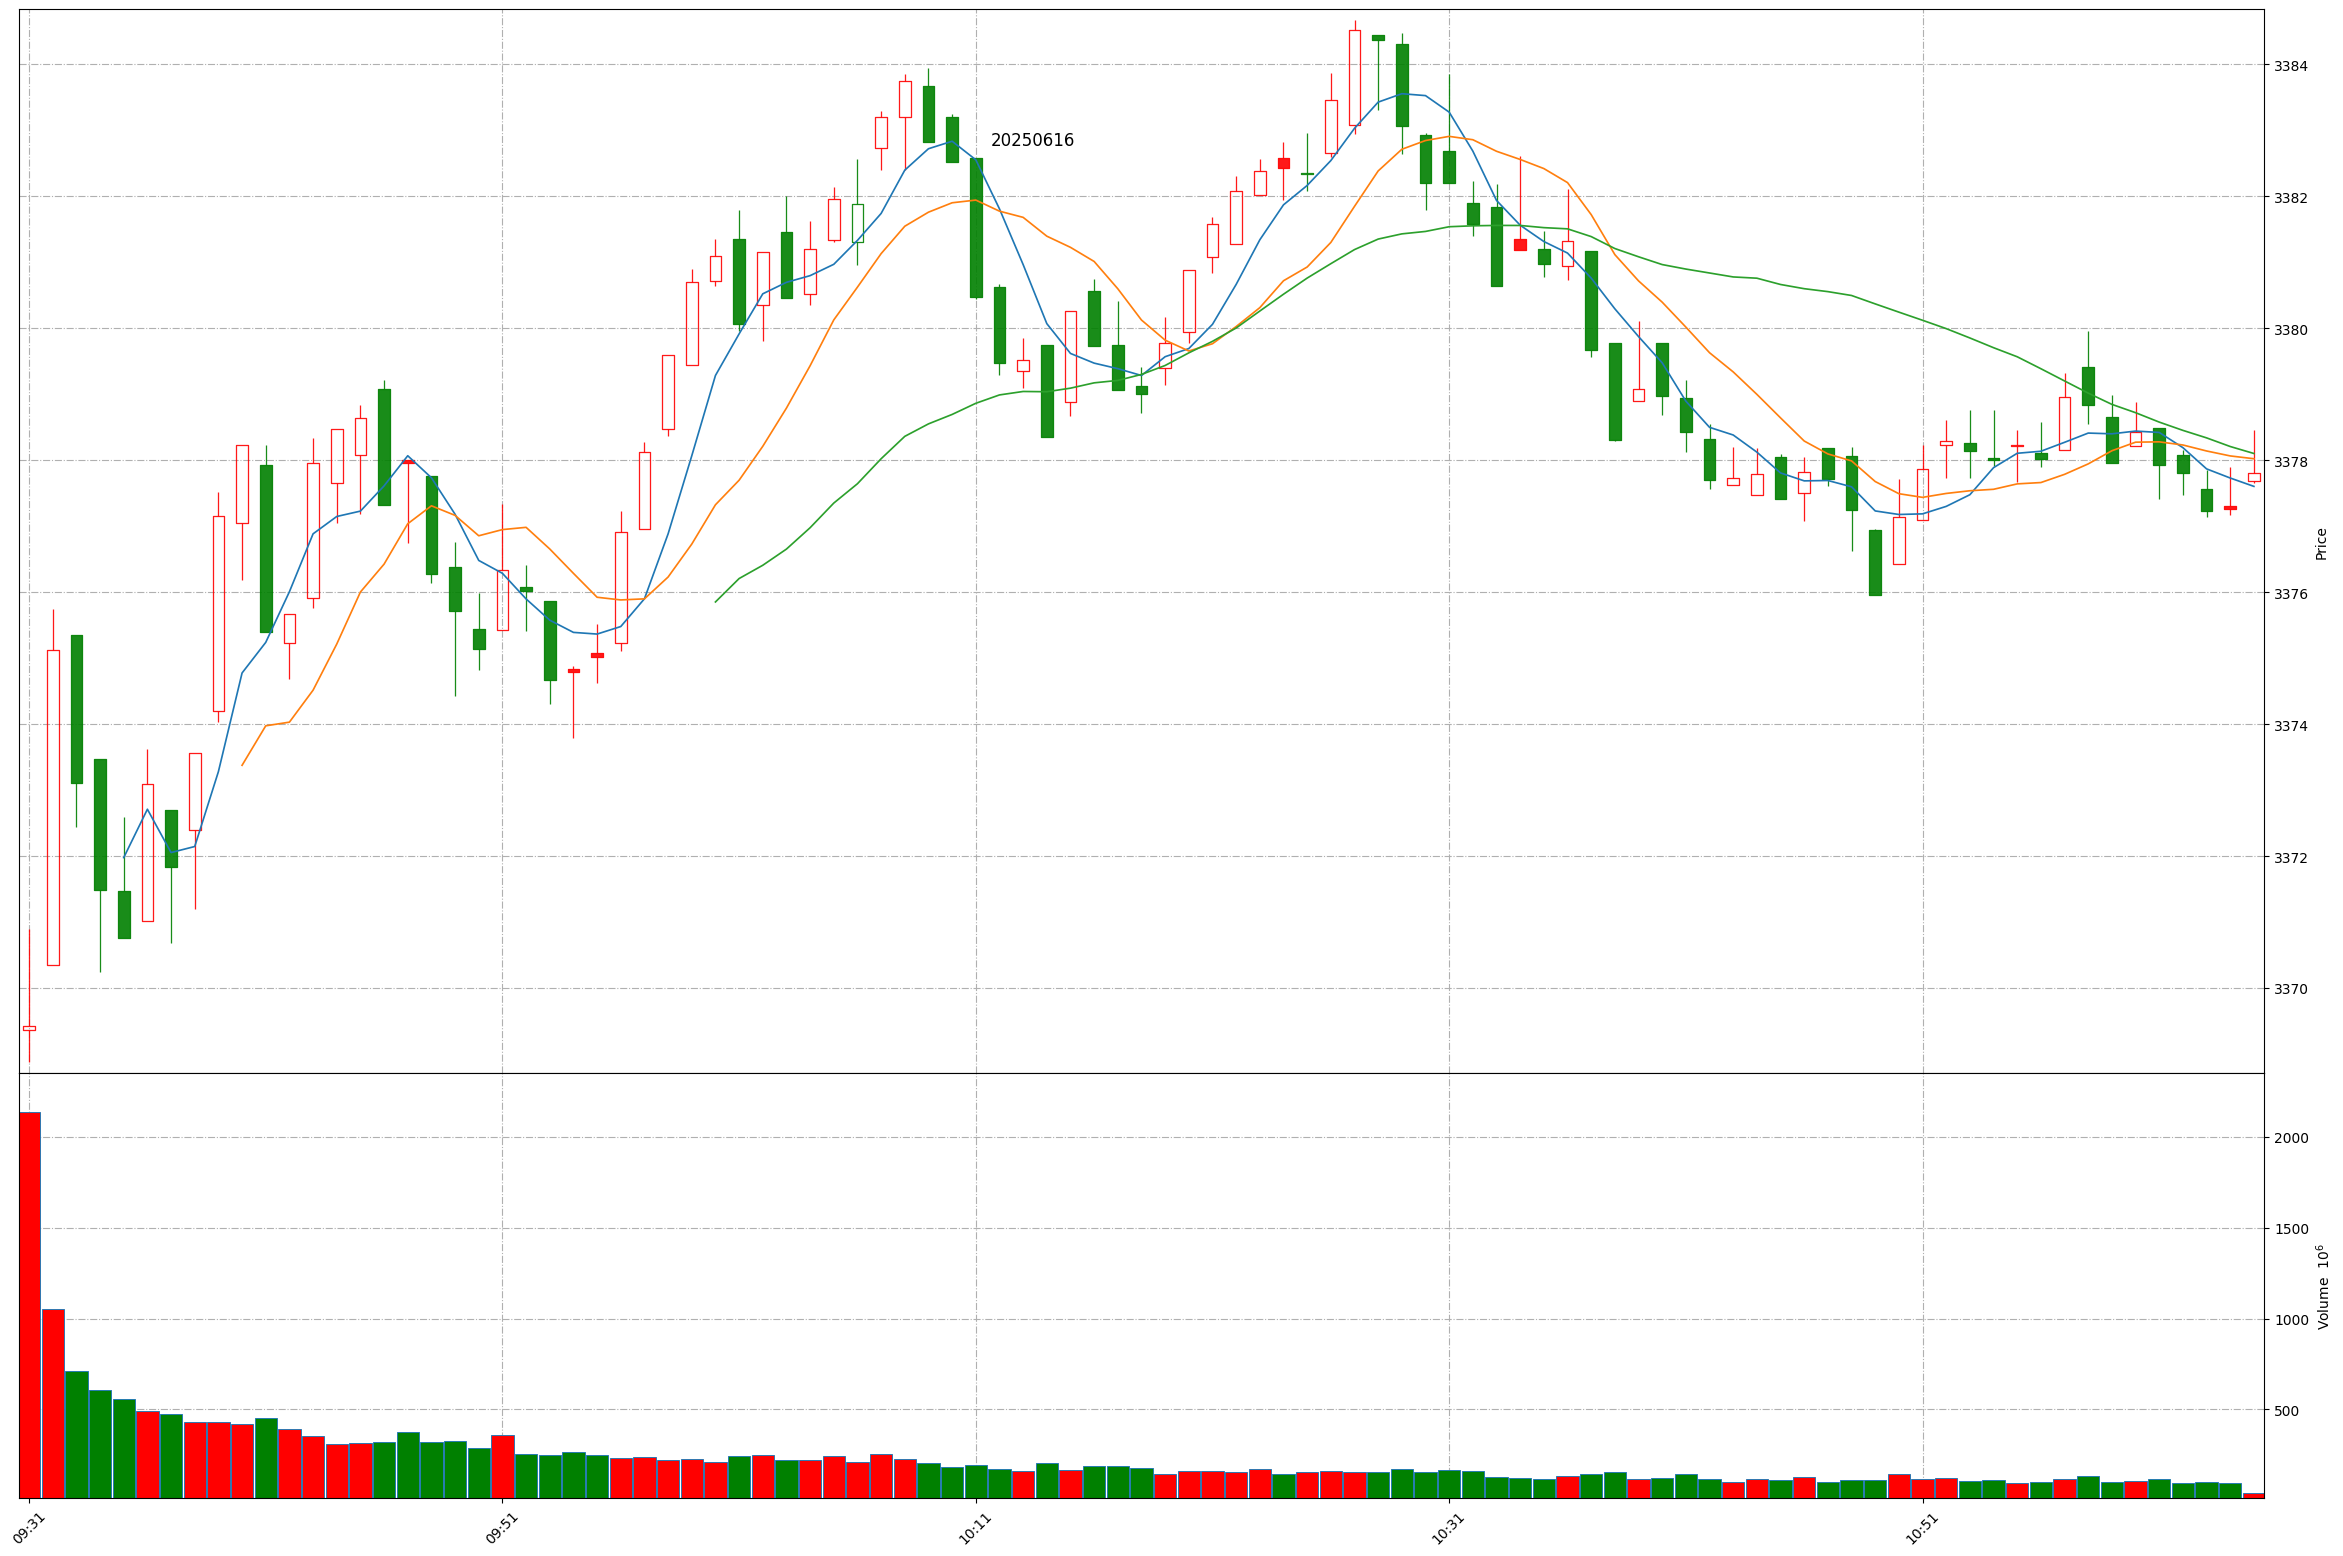
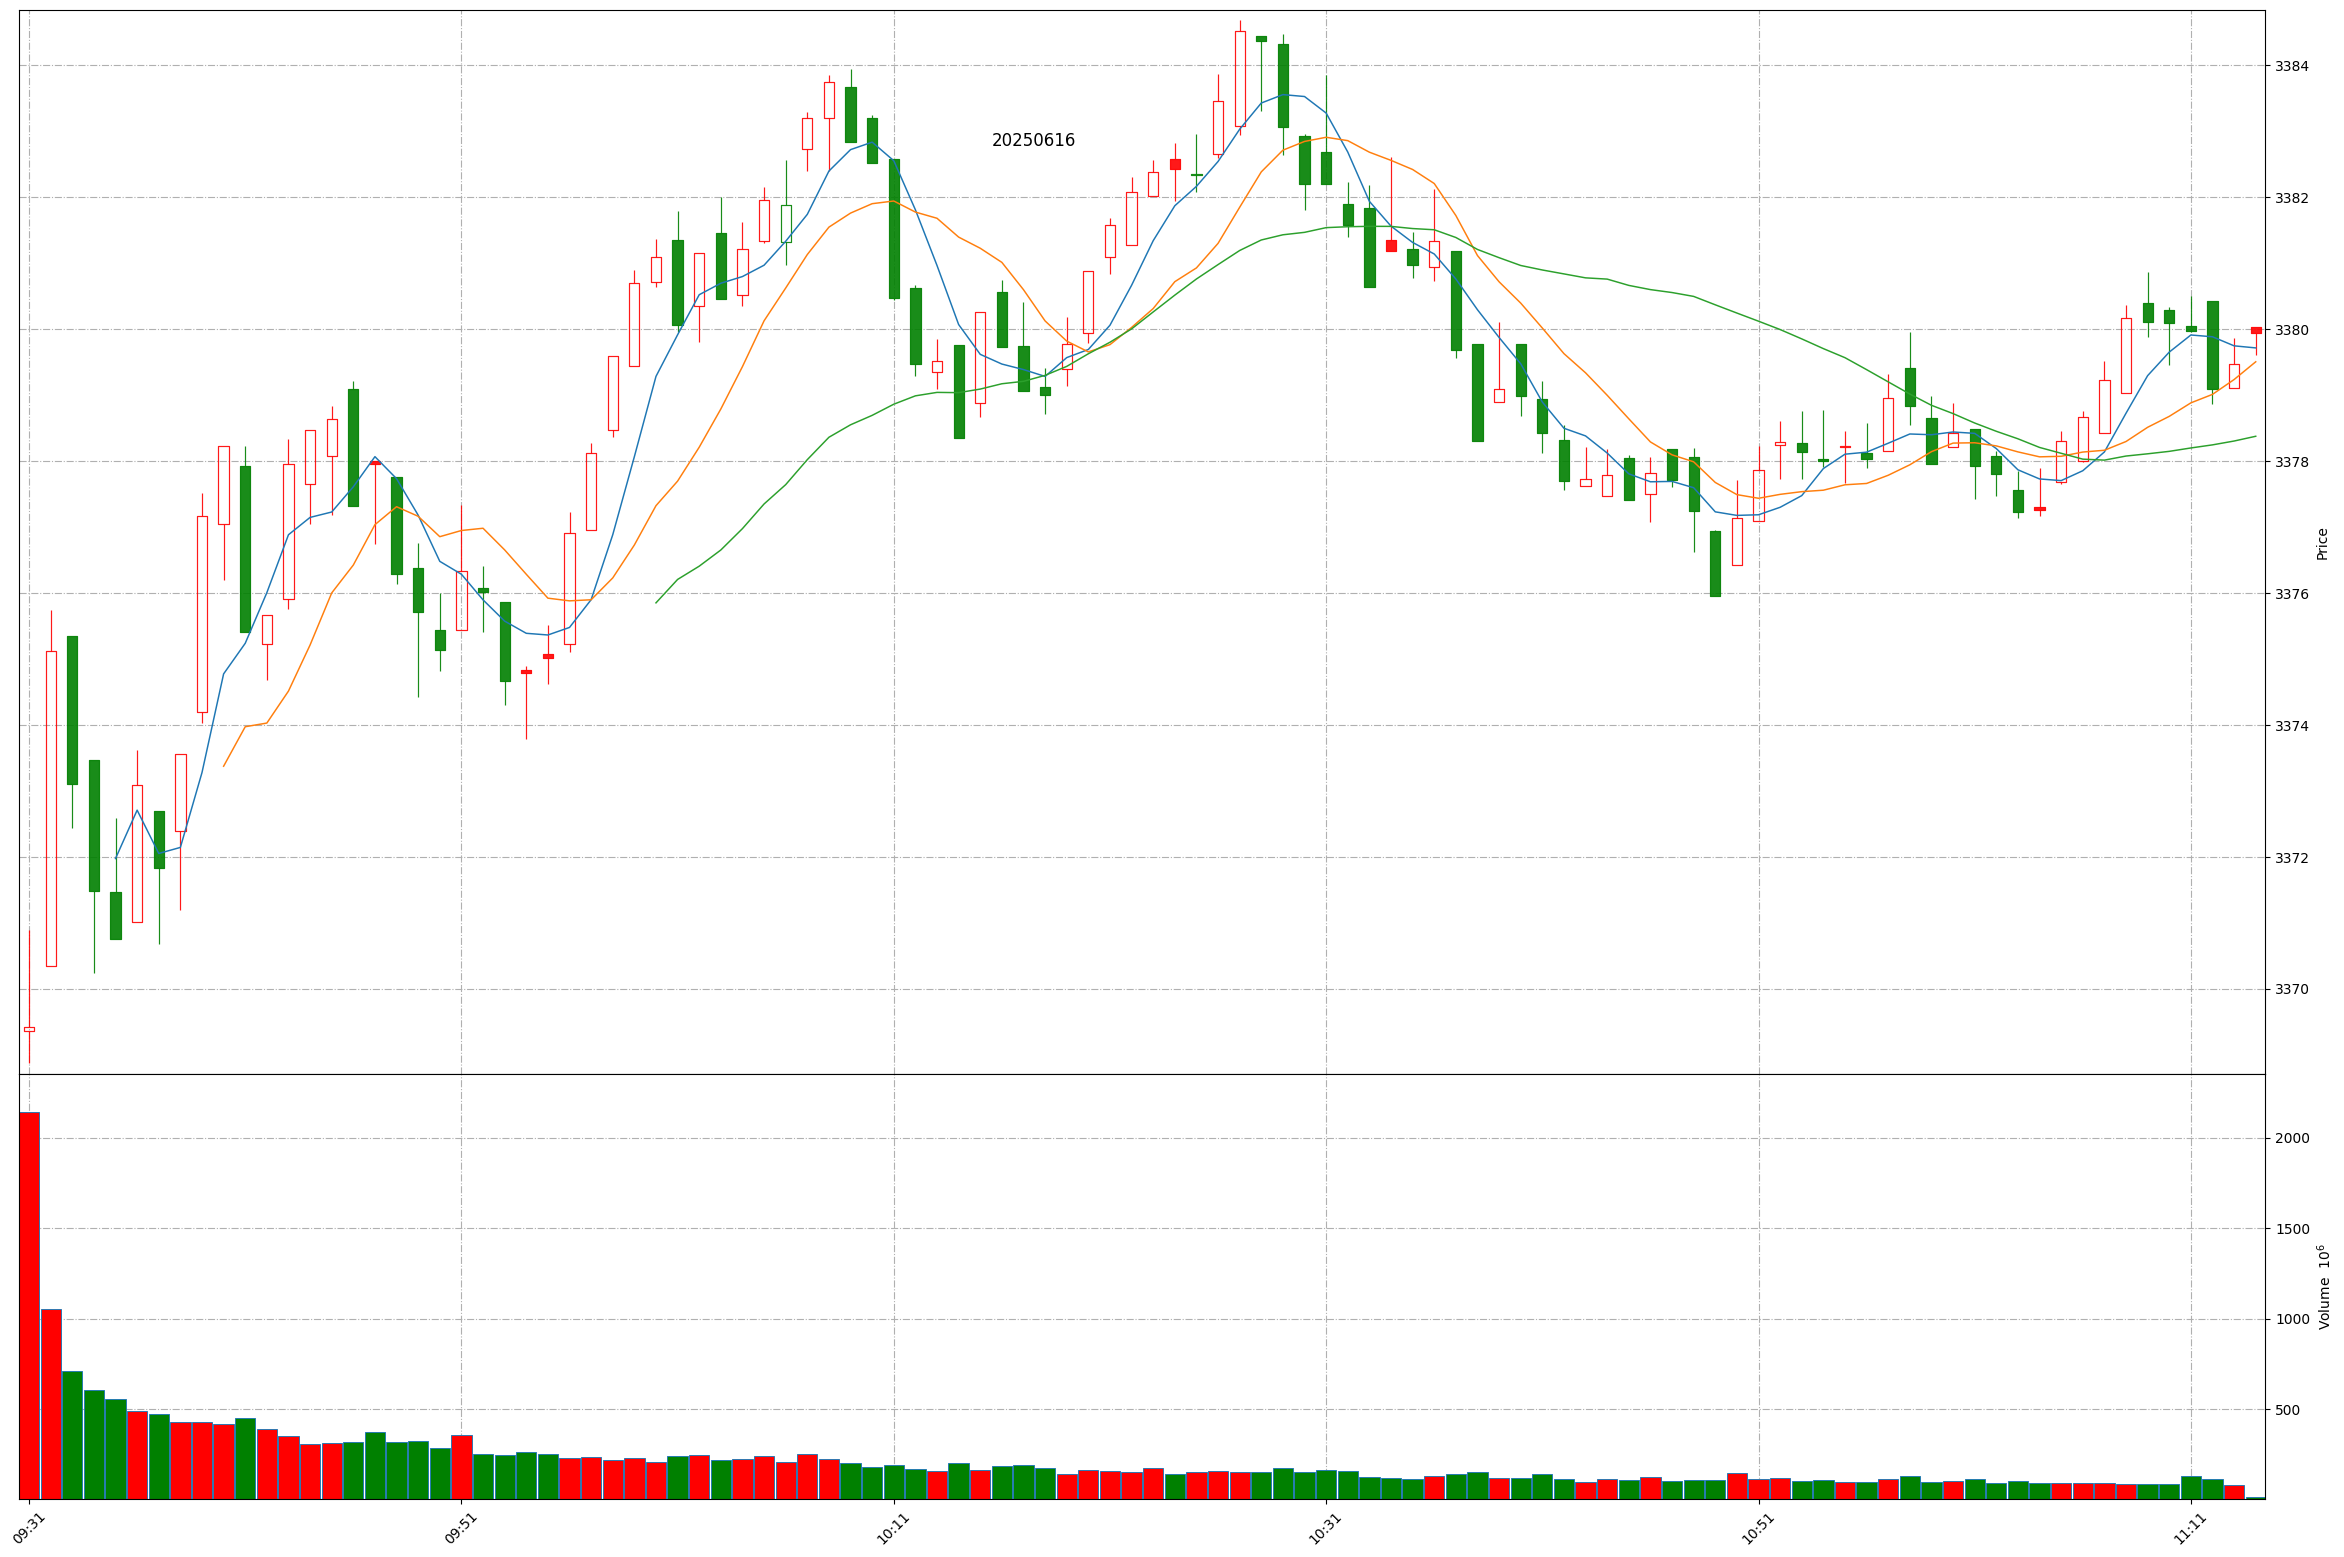
Github action update at 2025-06-16 11:13:34.

diff --git a/README.md b/README.md
@@ -1,11 +1,11 @@
 
 # Daily-A-share-market-quotes 每日 A 股指数（5min 更新）- 20250616
 
-### 上证指数 20250616 11:4
+### 上证指数 20250616 11:13
 ![](./fig/2025/6/20250616-sh000001.png)
 
-### 深证成指 20250616 11:4
+### 深证成指 20250616 11:13
 ![](./fig/2025/6/20250616-sz399001.png)
 
-### 北证50 20250616 11:4
+### 北证50 20250616 11:13
 ![](./fig/2025/6/20250616-bj899050.png)
